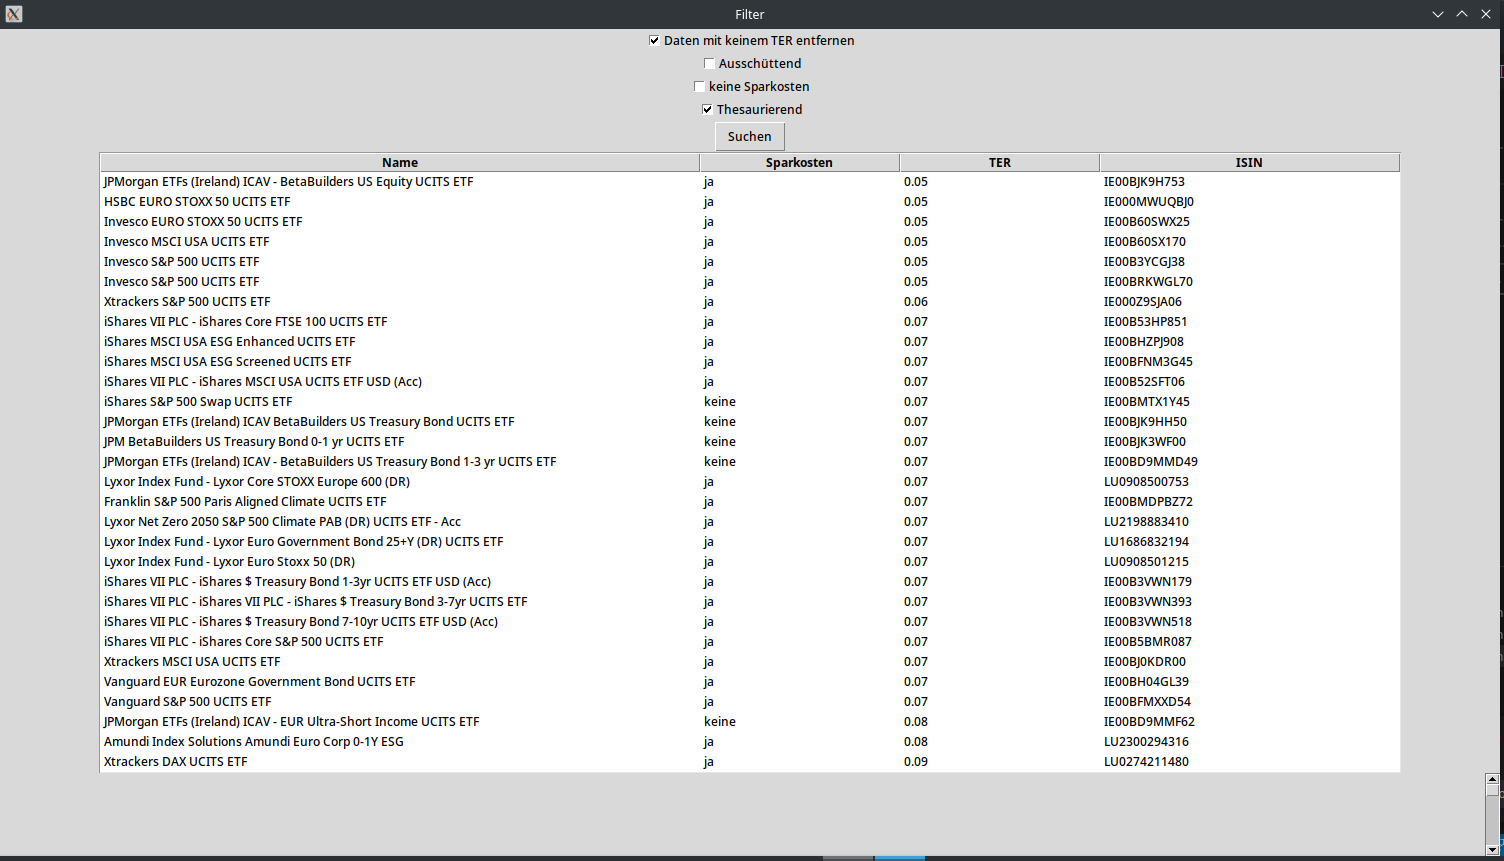
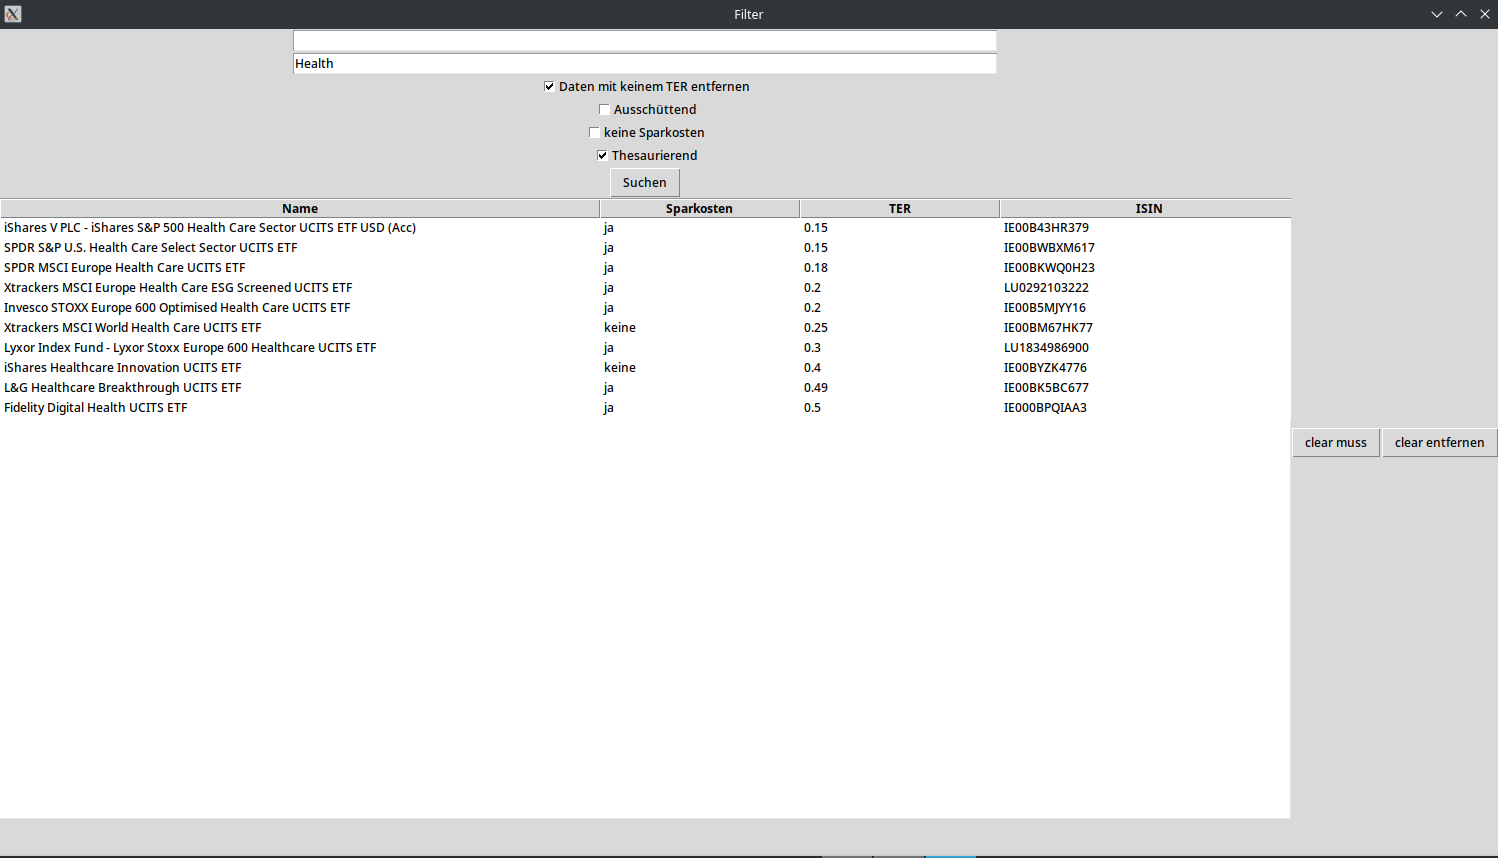
improved

diff --git a/filter.py b/filter.py
@@ -15,11 +15,61 @@ var1 = tk.IntVar()
 var2 = tk.IntVar()
 var3 = tk.IntVar()
 var4 = tk.IntVar()
+var5 = tk.IntVar()
+var6 = tk.IntVar()
 
 c1 = tk.Checkbutton(root, text="Daten mit keinem TER entfernen", variable=var1)
 c2 = tk.Checkbutton(root, text="Ausschüttend", variable=var2)
 c3 = tk.Checkbutton(root, text="keine Sparkosten", variable=var3)
 c4 = tk.Checkbutton(root, text="Thesaurierend", variable=var4)
+
+#textfield for filtering, words separated by comma, enternen1, enternen2 as hint
+e1 = tk.Entry(root, width=100)
+
+#checkbutton to activate the textfield, default is not active
+def check():
+    if var6.get() == 1:
+        e1.config(state='normal')
+    else:
+        e1.config(state='disabled')
+
+#add a clear button for the textfield
+def clear1():
+    e1.delete(0, tk.END)
+
+
+b1 = tk.Button(root, text='clear entfernen', command=clear1)
+b1.pack(side=tk.RIGHT)
+
+
+e2 = tk.Entry(root, width=100)
+
+#checkbutton to activate the textfield, default is not active
+def check():
+    if var5.get() == 1:
+        e2.config(state='normal')
+    else:
+        e2.config(state='disabled')
+
+c5 = tk.Checkbutton(root, text="Name x muss enthalten sein:", variable=var5, command=check)
+c5.pack()
+e2.pack()
+
+
+
+#add a clear button for the textfield
+def clear2():
+    e2.delete(0, tk.END)
+
+#button next to the textfield
+b2 = tk.Button(root, text='clear muss', command=clear2)
+b2.pack(side=tk.RIGHT)
+
+
+c6 = tk.Checkbutton(root, text="Name x darf nicht enthalten sein:", variable=var6, command=check)
+c6.pack()
+e1.pack()
+
 
 c1.pack()
 c2.pack()
@@ -47,6 +97,20 @@ def filter():
             data = [x for x in data if x['sparkosten'] != 'ja']
         if var4.get() == 1:
             data = [x for x in data if x['isDistributing'] == False]
+        if e1.get() != '' and var6.get() == 1:
+            names = e1.get().split(',')
+            #remove all where name is part of a word in the list (both lower and upper case)
+            data = [x for x in data if not any(name.lower() in x['name'].lower() for name in names)]
+
+
+        if e2.get() != '' and var5.get() == 1:
+            names = e2.get().split(',')
+            #remove all where name is not part of a word in the list, both lower and upper case
+            data = [x for x in data if any(name.lower() in x['name'].lower() for name in names)]
+
+        
+        #remove all where 
+
     visualize()
 
 #visualize filtered data as a table
@@ -67,10 +131,6 @@ def visualize():
     for x in data:
         table.insert("", tk.END, values=(x['name'], x['sparkosten'], x['ter'], x['number']))
 
-    # Scrollbar
-    vsb = ttk.Scrollbar(root, orient="vertical", command=table.yview)
-    vsb.pack(side=tk.RIGHT, fill='y')
-    table.configure(yscrollcommand=vsb.set)
 
     #make table sortable by clicking on the header, ter is sorted by number
     table.heading(1, text="Name", command=lambda: sortby(table, 1, False))
